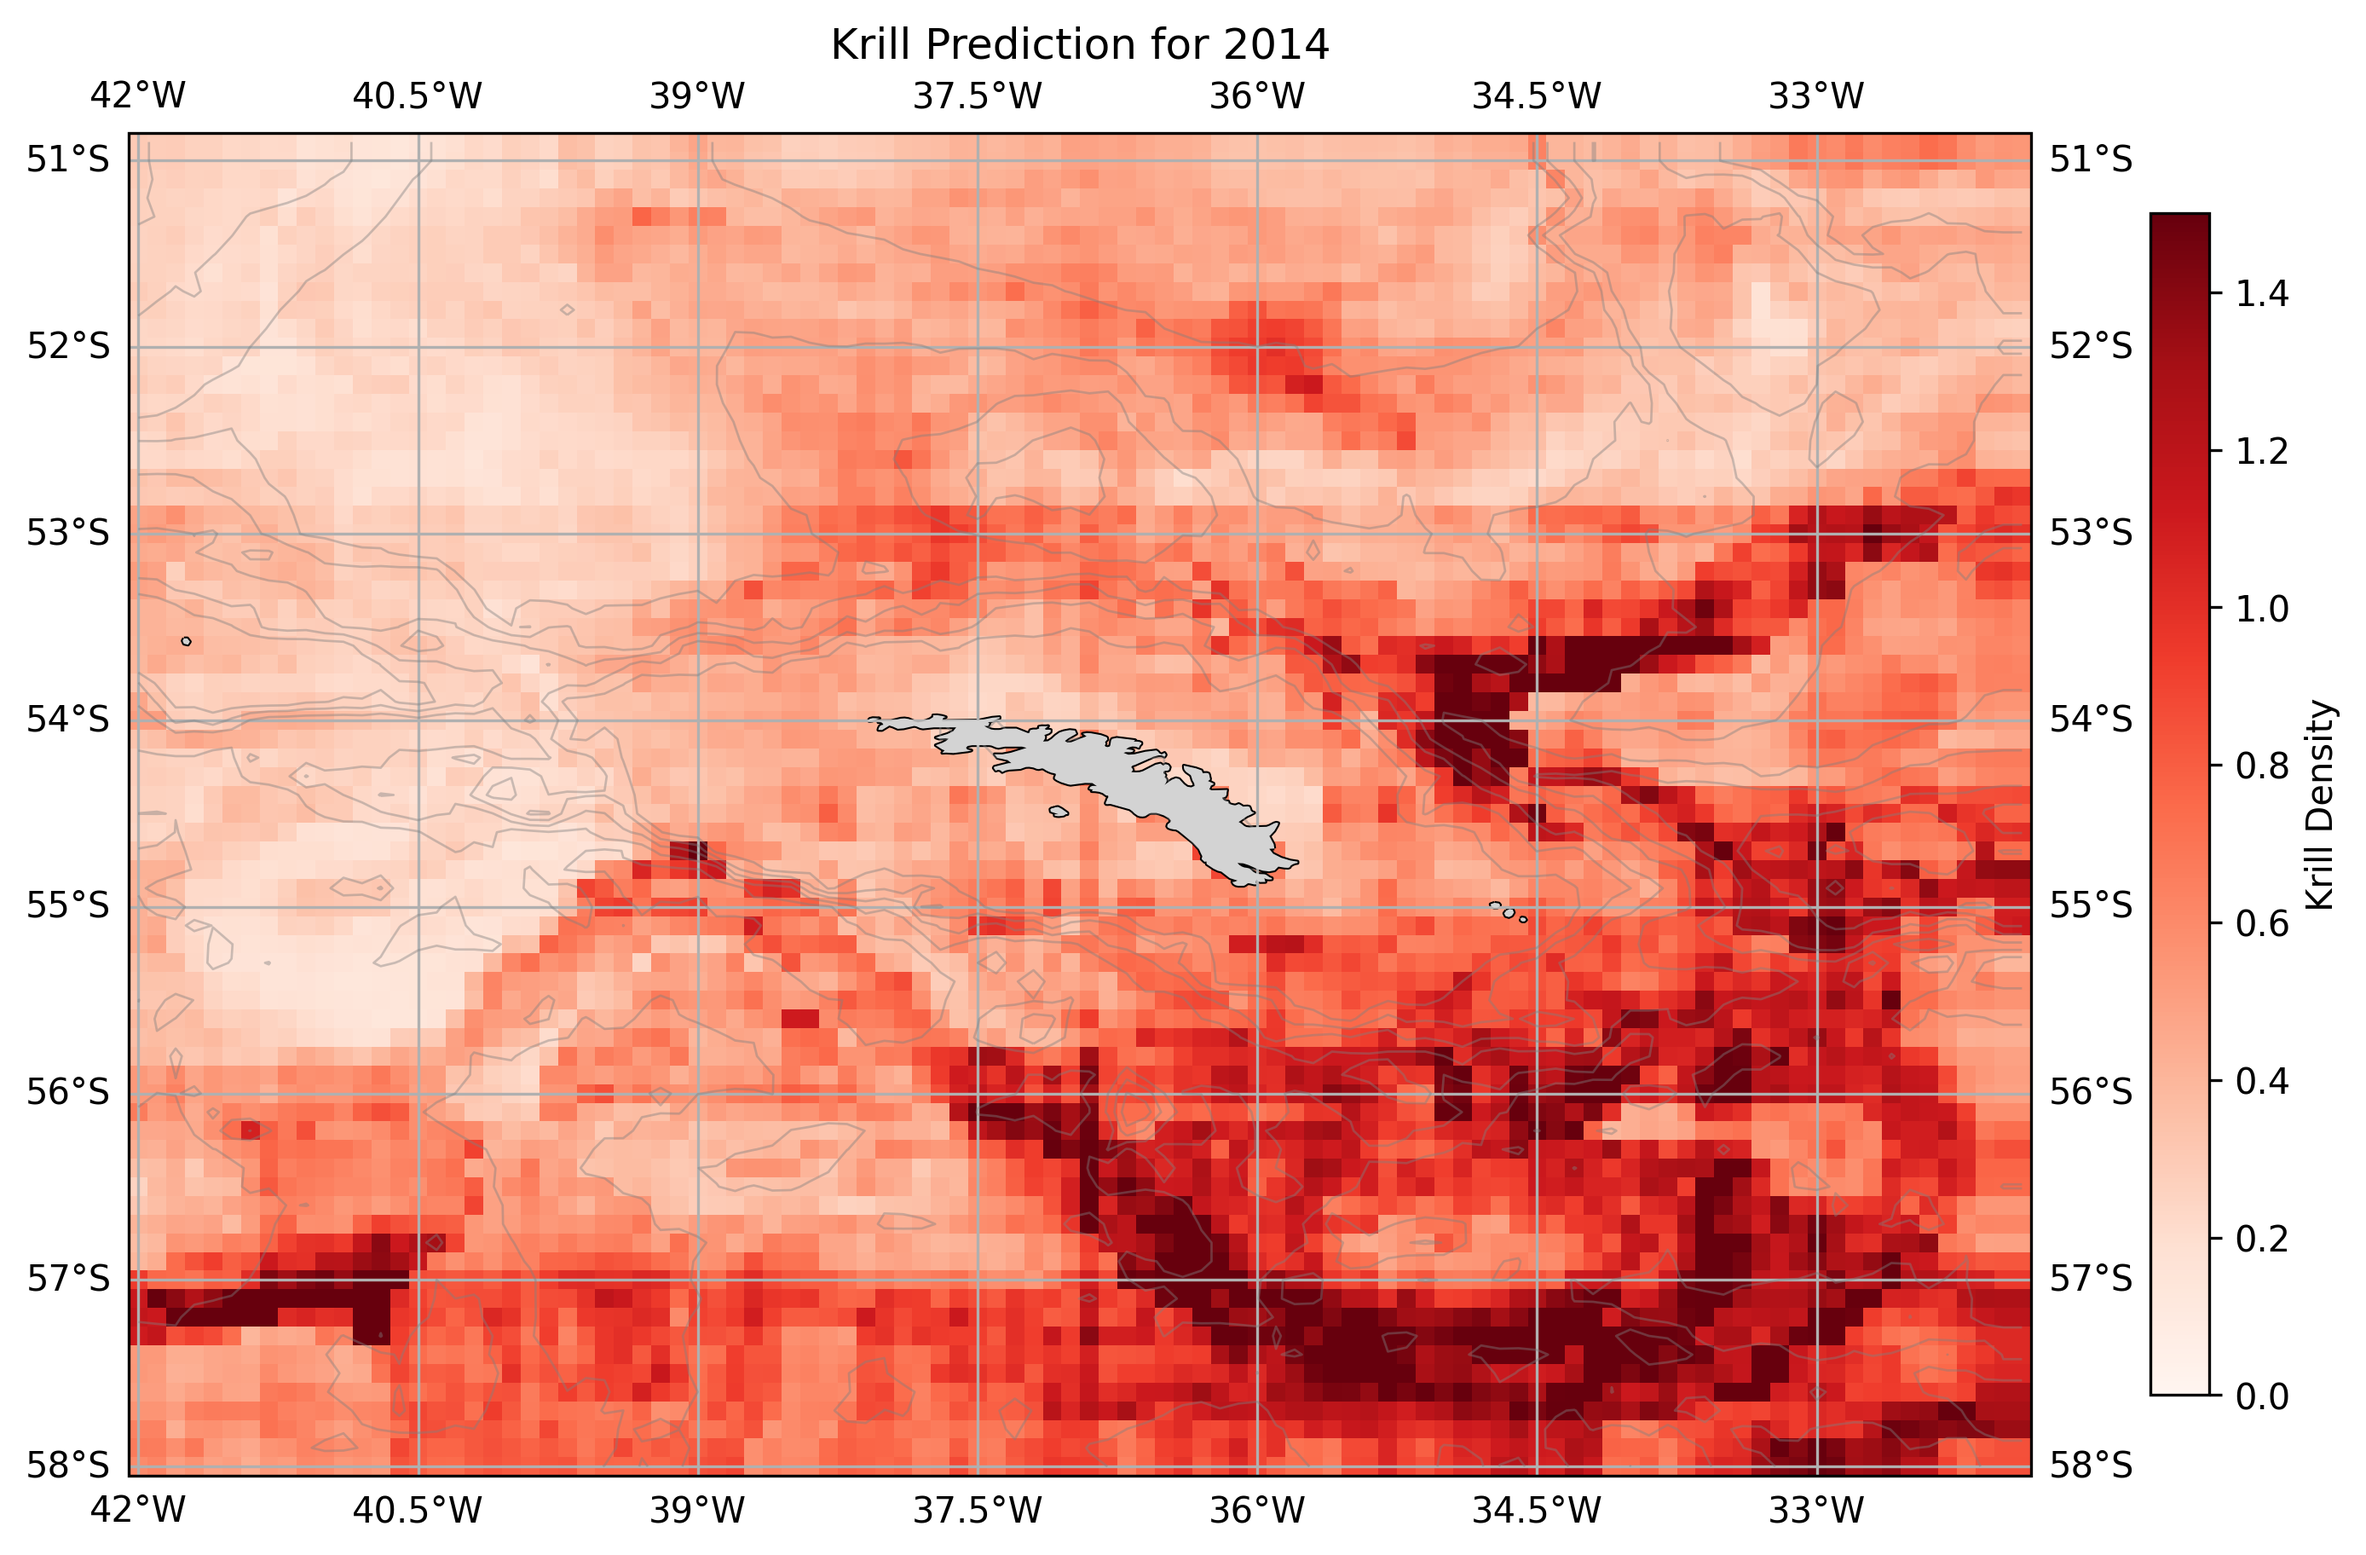
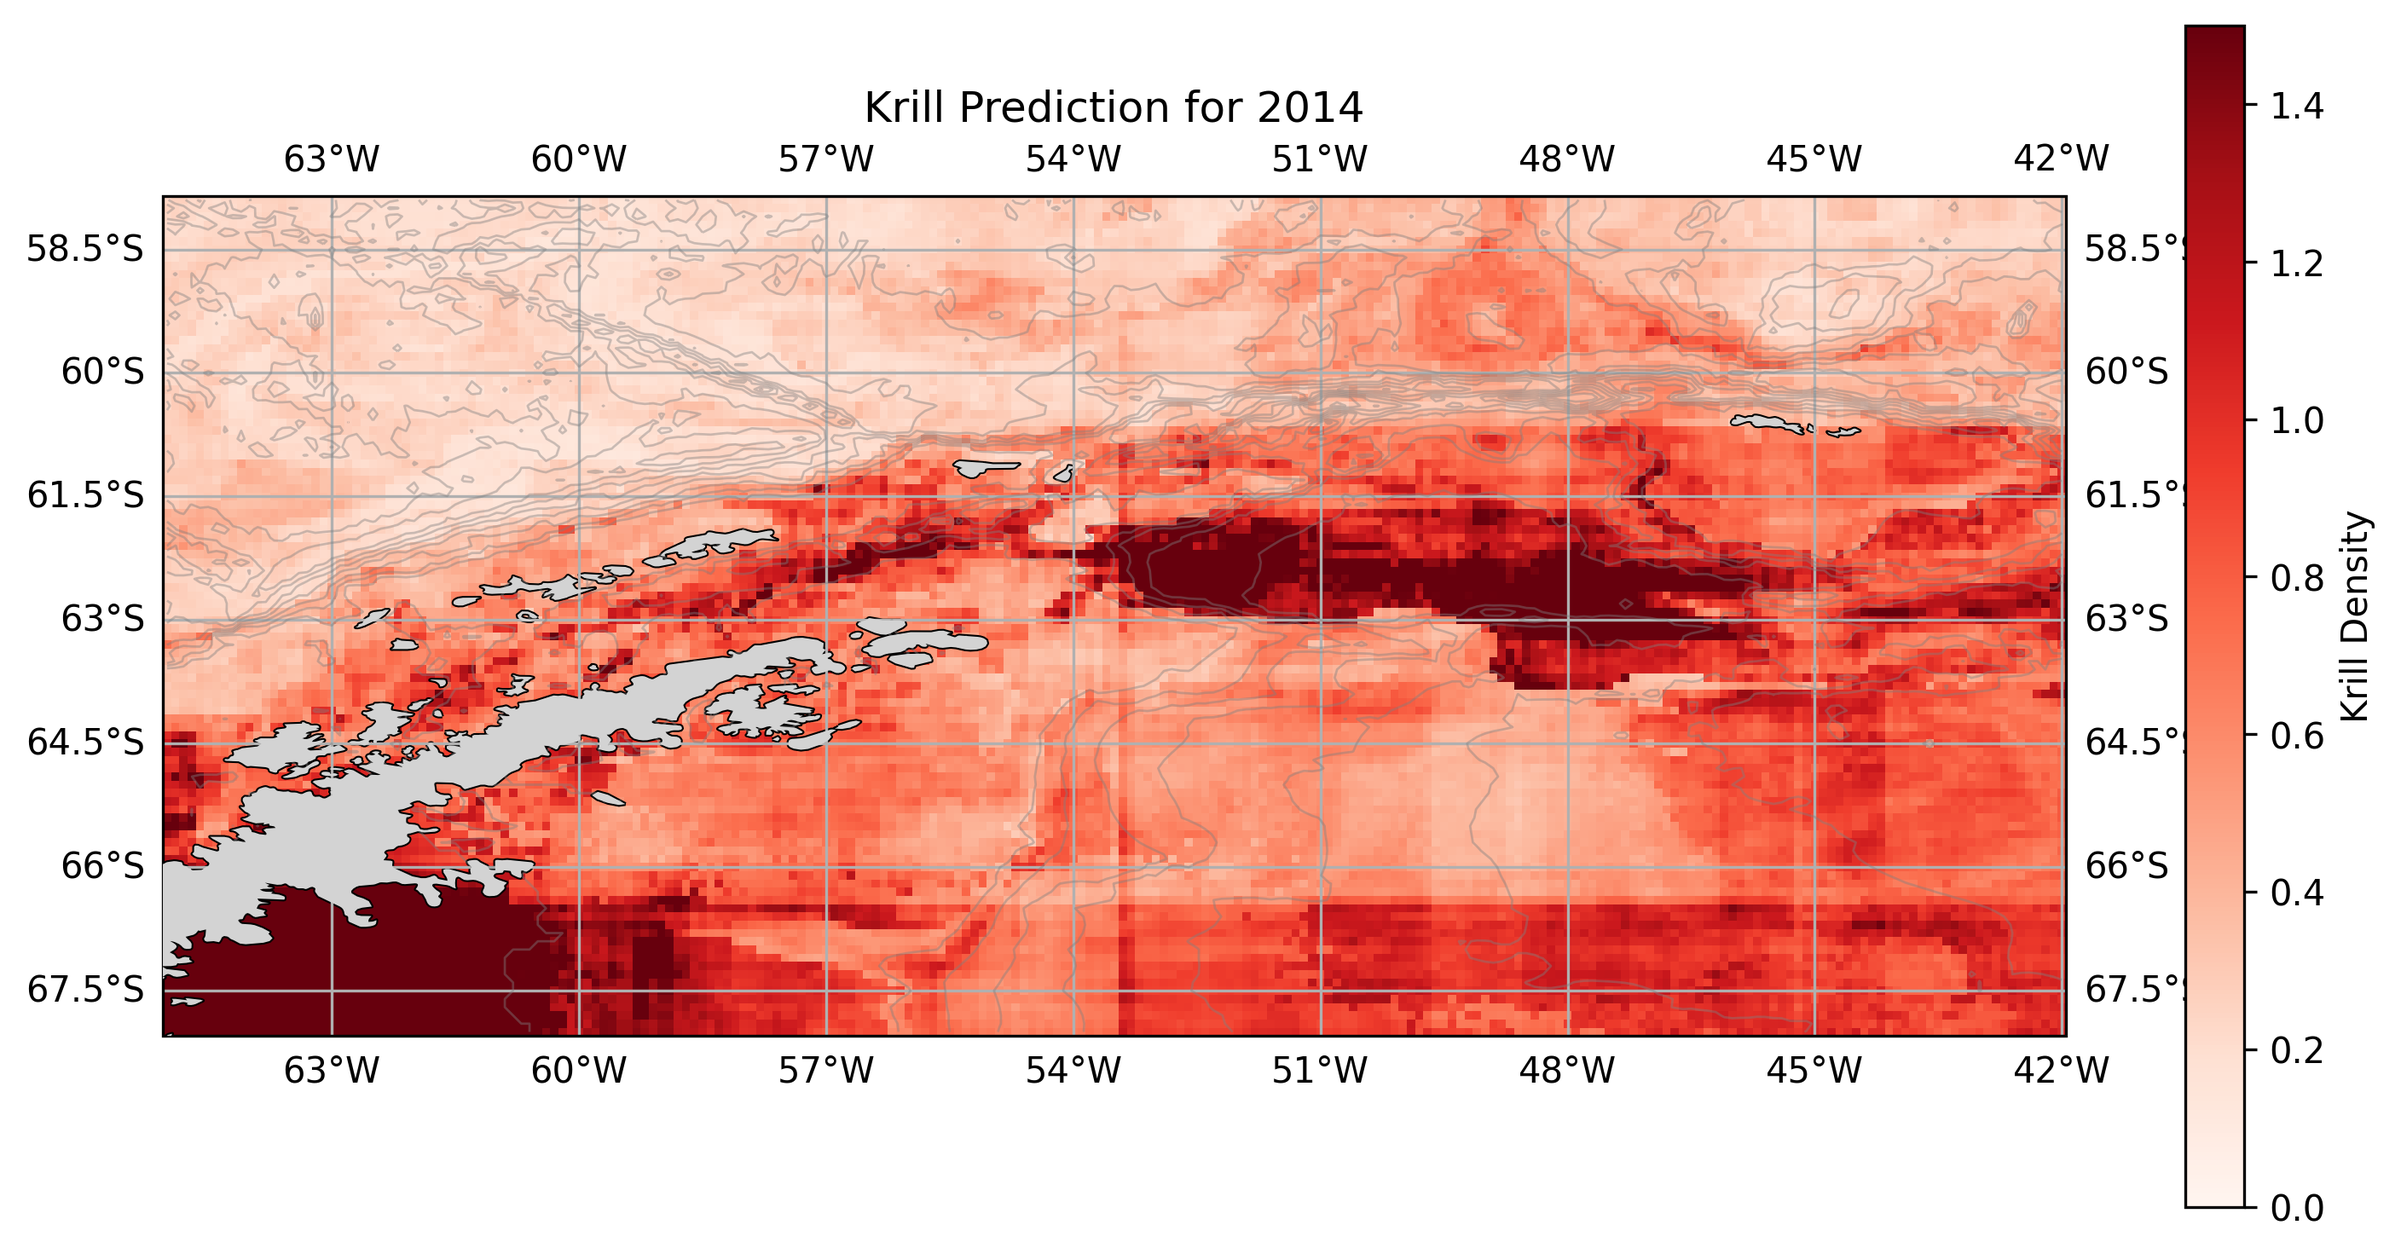
interpolating

diff --git a/krilldata/krillPredict.py b/krilldata/krillPredict.py
@@ -7,6 +7,7 @@ import logging
 import matplotlib.pyplot as plt
 import os
 from scipy.stats import gaussian_kde
+from scipy.interpolate import RegularGridInterpolator
 from sklearn.metrics import mean_squared_error
 from krilldata import KrillTrain
 
@@ -331,14 +332,31 @@ class MapKrillDensity:
         self.logger.info(f"================={self.__class__.__name__}=====================")
         self.logger.info(f"Opening datasets: for {self.featureColumns} and {self.targetColumn}")
         self.logger.info(f"model type: {self.modelType}")
+        return
 
+    def plotExample(self):
         # algorithm
         self.spatialExtent()
-        self.loadEnvFeatures()
+        self.loadEnvFeatures(year=2012, region = "AP")
         self.reindexInterpolate()
         self.getFeatures()
         self.predictY()
         self.mapPredictions()
+        return
+
+    def plotAP(self):
+        # algorithm
+        self.spatialExtent()
+        y = []
+        for year in range(2013, 2016+1):
+            self.loadEnvFeatures(year=year, region = "AP")
+            self.reindexInterpolate()
+            self.getFeatures()
+            self.predictY()
+            y.append(self.y)
+            self.logger.info(f"Finished year {year}")
+        breakpoint()
+            
         return
 
     def spatialExtent(self):
@@ -368,49 +386,81 @@ class MapKrillDensity:
         self.lonPe_grid, self.latPe_grid = np.meshgrid(self.lonPe, self.latPe)
         return
 
-    def loadEnvFeatures(self):
+    def loadEnvFeatures(self, year, region):
         # Load the fused data and remove any rows with NaN values
-        self.yearP = 2014
+        self.region = region
+        self.yearP = year
         time_slice = slice(f'{self.yearP}-01-01', f'{self.yearP}-03-31')
-        lat_slice = slice(self.latSGmin, self.latSGmax)
-        lon_slice = slice(self.lonSGmin, self.lonSGmax)
+        if region == "AP":
+            lat_slice = slice(self.latPeMin, self.latPeMax)
+            lon_slice = slice(self.lonPeMin, self.lonPeMax)
+        elif region == "SG":
+            lat_slice = slice(self.latSGmin, self.latSGmax)
+            lon_slice = slice(self.lonSGmin, self.lonSGmax)
+        else:
+            raise ValueError("Region must be either 'SG' or 'AP'")
 
         # Load data effectively
-        self.sstds = self.sstds.sel(time=time_slice, latitude=lat_slice, longitude=lon_slice)
-        self.sshds = self.sshds.sel(time=time_slice, latitude=lat_slice, longitude=lon_slice)
-        self.chlds = self.chlds.sel(time=time_slice, latitude=lat_slice, longitude=lon_slice)
-        self.ironds = self.ironds.sel(time=time_slice, latitude=lat_slice, longitude=lon_slice).isel(depth=0)
-        self.bathymetryds = self.bathymetryds.sel(lat=lat_slice, lon=lon_slice)
+        self.sstdsSub = self.sstds.sel(time=time_slice, latitude=lat_slice, longitude=lon_slice)
+        self.sshdsSub = self.sshds.sel(time=time_slice, latitude=lat_slice, longitude=lon_slice)
+        self.chldsSub = self.chlds.sel(time=time_slice, latitude=lat_slice, longitude=lon_slice)
+        self.irondsSub = self.ironds.sel(time=time_slice, latitude=lat_slice, longitude=lon_slice).isel(depth=0)
+        self.bathymetrydsSub = self.bathymetryds.sel(lat=lat_slice, lon=lon_slice)
 
         # For the time period, compute the mean efficiently with dask
-        self.sstdsMean = self.sstds.mean(dim='time', skipna=True).compute()
-        self.sshdsMean = self.sshds.mean(dim='time', skipna=True).compute()
-        self.chldsMean = self.chlds.mean(dim='time', skipna=True).compute()
-        self.irondsMean = self.ironds.mean(dim='time', skipna=True).compute()
+        self.sstdsMean = self.sstdsSub.mean(dim='time', skipna=True).compute()
+        self.sshdsMean = self.sshdsSub.mean(dim='time', skipna=True).compute()
+        self.chldsMean = self.chldsSub.mean(dim='time', skipna=True).compute()
+        self.irondsMean = self.irondsSub.mean(dim='time', skipna=True).compute()
         
         return
 
     def reindexInterpolate(self):
         # here I should clean values required;
-        irondsMean = self.irondsMean.sel(latitude=self.latSG, longitude=self.lonSG, method='nearest')
-        sstdsMean = self.sstdsMean.sel(latitude=self.latSG, longitude=self.lonSG, method='nearest')
-        chldsMean = self.chldsMean.sel(latitude=self.latSG, longitude=self.lonSG, method='nearest')
-        sshdsMean = self.sshdsMean.sel(latitude=self.latSG, longitude=self.lonSG, method='nearest')
-        bathymetryds = self.bathymetryds.sel(lat=self.latSG, lon=self.lonSG, method='nearest')
-        self.bvals = bathymetryds["elevation"].values
+        if self.region == "AP":
+            lat = self.latPe
+            lon = self.lonPe
+        elif self.region == "SG":
+            lat = self.latSG
+            lon = self.lonSG
+
+        interp_fe = RegularGridInterpolator((self.irondsMean["latitude"].values, self.irondsMean["longitude"].values), self.irondsMean["fe"].values, method='linear', bounds_error=False, fill_value=np.nan)
+        irondsMean = interp_fe((self.latPe_grid, self.lonPe_grid))
+        interp_t = RegularGridInterpolator((self.sstdsMean["latitude"].values, self.sstdsMean["longitude"].values), self.sstdsMean["analysed_sst"].values, method='linear', bounds_error=False, fill_value=np.nan)
+        sstdsMean = interp_t((self.latPe_grid, self.lonPe_grid))
+        interp_chl = RegularGridInterpolator((self.chldsMean["latitude"].values, self.chldsMean["longitude"].values), self.chldsMean["CHL"].values, method='linear', bounds_error=False, fill_value=np.nan)
+        chldsMean = interp_chl((self.latPe_grid, self.lonPe_grid))
+        interp_ssh = RegularGridInterpolator((self.sshdsMean["latitude"].values, self.sshdsMean["longitude"].values), self.sshdsMean["adt"].values, method='linear', bounds_error=False, fill_value=np.nan)
+        sshdsMean = interp_ssh((self.latPe_grid, self.lonPe_grid))
+        # todo: interpolate net_vel after finding values
+        interp_bath = RegularGridInterpolator((self.bathymetryds["lat"].values, self.bathymetryds["lon"].values), self.bathymetryds["elevation"].values, method='linear', bounds_error=False, fill_value=np.nan)
+        bathymetryds = interp_bath((self.latPe_grid, self.lonPe_grid))
+        #bathymetryds = self.bathymetryds.sel(lat=lat, lon=lon, method='nearest')
+        #self.bvals = bathymetryds["elevation"].values
+        self.bvals = bathymetryds
         self.bvals[self.bvals > 0] = 0
 
         # get all the relevant data
         self.bathymetry = abs(self.bvals)
-        self.fe = irondsMean["fe"].values
-        self.sst = sstdsMean["analysed_sst"].values - 273.15
-        self.ssh = sshdsMean["adt"].values
+        # self.fe = irondsMean["fe"].values
+        # self.sst = sstdsMean["analysed_sst"].values - 273.15
+        # self.ssh = sshdsMean["adt"].values
+        # self.net_vel = np.sqrt(np.power(sshdsMean["ugos"].values,2) + np.power(sshdsMean["vgos"].values,2))
+        # self.chl = chldsMean["CHL"].values
+        self.fe = irondsMean
+        self.sst = sstdsMean - 273.15
+        self.ssh = sshdsMean
         self.net_vel = np.sqrt(np.power(sshdsMean["ugos"].values,2) + np.power(sshdsMean["vgos"].values,2))
-        self.chl = chldsMean["CHL"].values
+        self.chl = chldsMean
         self.year = self.yearP*np.ones(self.bathymetry.shape)
-        self.lon = self.lonSG_grid
-        self.lat = self.latSG_grid
+        if self.region == "SG":
+            self.lon = self.lonSG_grid
+            self.lat = self.latSG_grid
+        else:
+            self.lon = self.lonPe_grid
+            self.lat = self.latPe_grid
         return
+
 
     def getFeatures(self):
         X = self.bathymetry.flatten(), self.fe.flatten(), self.sst.flatten(), self.ssh.flatten(), self.net_vel.flatten(), self.chl.flatten(), self.year.flatten(), self.lon.flatten(), self.lat.flatten()
@@ -539,6 +589,7 @@ class ResponseCurves:
             self.logger.info(f"  Median: {self.feature_stats[col]['median']:.3f}")
             self.logger.info(f"  Std Dev: {self.feature_stats[col]['std']:.3f}")
             self.logger.info(f"  Range: [{self.feature_stats[col]['min']:.3f}, {self.feature_stats[col]['max']:.3f}]")
+        return
 
     def initLogger(self):
         """Initialize the logger for the ResponseCurves class."""
@@ -667,10 +718,6 @@ class ResponseCurves:
         else:
             plt.show()
         return
-
-
-
-    
 
 class PerformancePlot:
     """Class for creating prediction vs observation plots"""

diff --git a/usage/mapKrill.py b/usage/mapKrill.py
@@ -17,4 +17,10 @@ modelType = "rfr"
 
 # ================MapKrillDensity class===============
 # Plots krill density over all scenarios
-MapKrillDensity(inputPath, outputPath, modelType='rfr')
+mp = MapKrillDensity(inputPath, outputPath, modelType='rfr')
+
+# plot example
+mp.plotExample()
+
+# plot AP
+#mp.plotAP()
